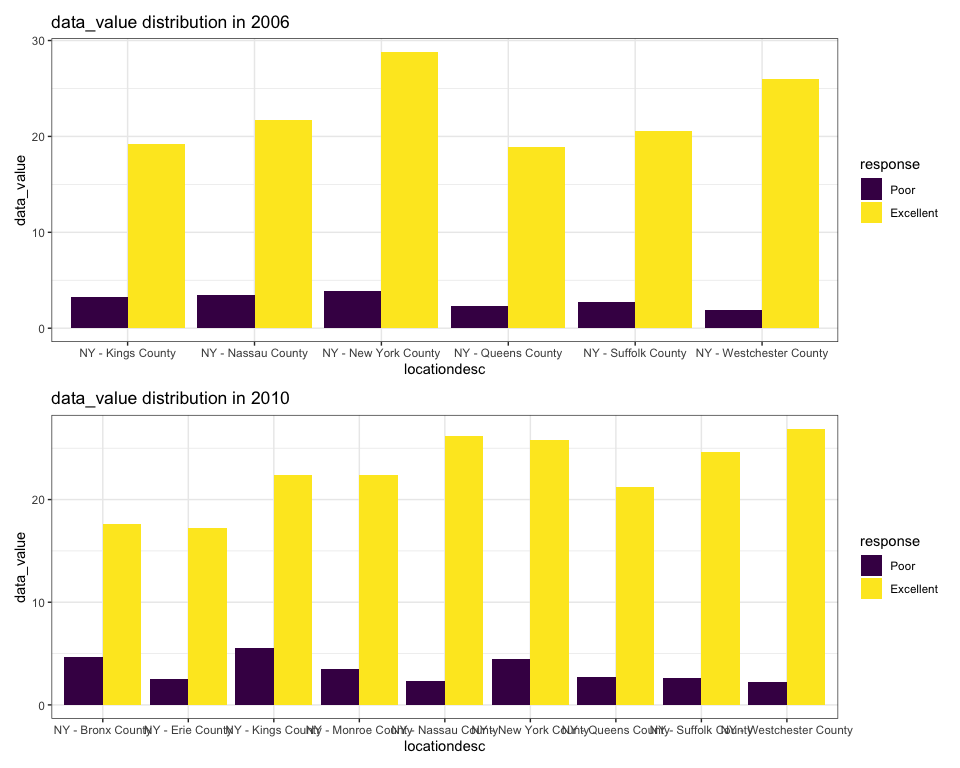
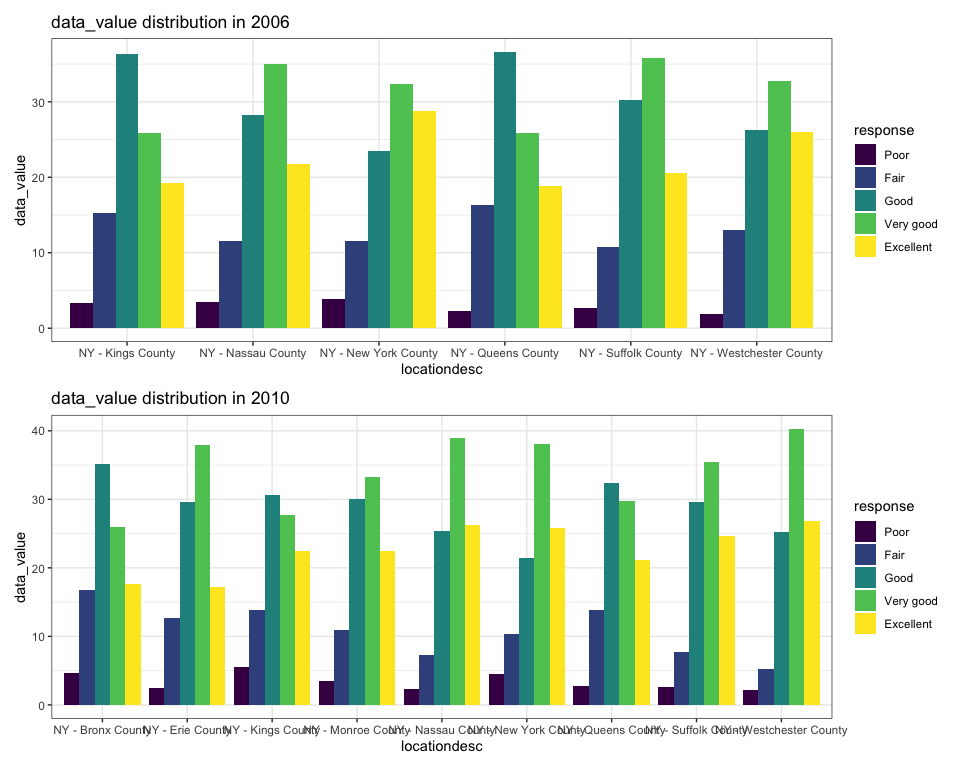
update question 2 plot

diff --git a/P8105_hw3_cx2257.md b/P8105_hw3_cx2257.md
@@ -74,26 +74,31 @@ freq_prod <- instacart %>%
     "dog food care",
     "packaged vegetables fruits"
   )) %>%
-  select(aisle, product_name) %>%
-  group_by(aisle) %>%
-  count(product_name, sort = TRUE) %>%
-  top_n(n = 3, wt = product_name) %>%
+  # select(aisle, product_name) %>%
+  group_by(aisle, product_name) %>%
+  summarise(n = n()) %>% 
+  # count(product_name, sort = TRUE) %>%
+  top_n(n = 3, wt = n) %>%
   arrange(aisle, desc(n))
+```
 
+    ## `summarise()` has grouped output by 'aisle'. You can override using the `.groups` argument.
+
+``` r
 freq_prod %>% knitr::kable() 
 ```
 
-| aisle                      | product_name                                     |   n |
-|:---------------------------|:-------------------------------------------------|----:|
-| baking ingredients         | Zero Calorie Sweetener                           |  31 |
-| baking ingredients         | Yellow Enriched & Degerminated Corn Meal         |   1 |
-| baking ingredients         | Zero Calorie Sweetener Packets 50 Count          |   1 |
-| dog food care              | With Chicken & Veal in Meaty Juices Wet Dog Food |   2 |
-| dog food care              | With Chicken & Beef in Meaty Juices Wet Dog Food |   1 |
-| dog food care              | Zero Grain Turkey Dog Food                       |   1 |
-| packaged vegetables fruits | Zucchini Noodles                                 |  60 |
-| packaged vegetables fruits | Yukon Gold Potato                                |  22 |
-| packaged vegetables fruits | Zucchini Squash, Baby Courgette                  |   3 |
+| aisle                      | product_name                                    |    n |
+|:---------------------------|:------------------------------------------------|-----:|
+| baking ingredients         | Light Brown Sugar                               |  157 |
+| baking ingredients         | Pure Baking Soda                                |  140 |
+| baking ingredients         | Organic Vanilla Extract                         |  122 |
+| dog food care              | Organix Grain Free Chicken & Vegetable Dog Food |   14 |
+| dog food care              | Organix Chicken & Brown Rice Recipe             |   13 |
+| dog food care              | Original Dry Dog                                |    9 |
+| packaged vegetables fruits | Organic Baby Spinach                            | 3324 |
+| packaged vegetables fruits | Organic Raspberries                             | 1920 |
+| packaged vegetables fruits | Organic Blueberries                             | 1692 |
 
 5.  **Make a table showing the mean hour of the day at which Pink Lady
     Apples and Coffee Ice Cream are ordered on each day of the week;
@@ -239,7 +244,6 @@ excellent_df %>%
 data_value_06 <-
   brfss_df %>%
   filter(year == 2006, 
-         response == "Poor" | response == "Excellent",
          locationabbr == "NY") %>%
   ggplot(aes(x = locationdesc, y = data_value, fill = response)) +
   geom_bar(position = "dodge", stat = "identity") +
@@ -250,7 +254,6 @@ data_value_06 <-
 data_value_10 <-
   brfss_df %>%
   filter(year == 2010, 
-         response == "Poor" | response == "Excellent",
          locationabbr == "NY") %>%
   ggplot(aes(x = locationdesc, y = data_value, fill = response)) +
   geom_bar(position = "dodge", stat = "identity") +
